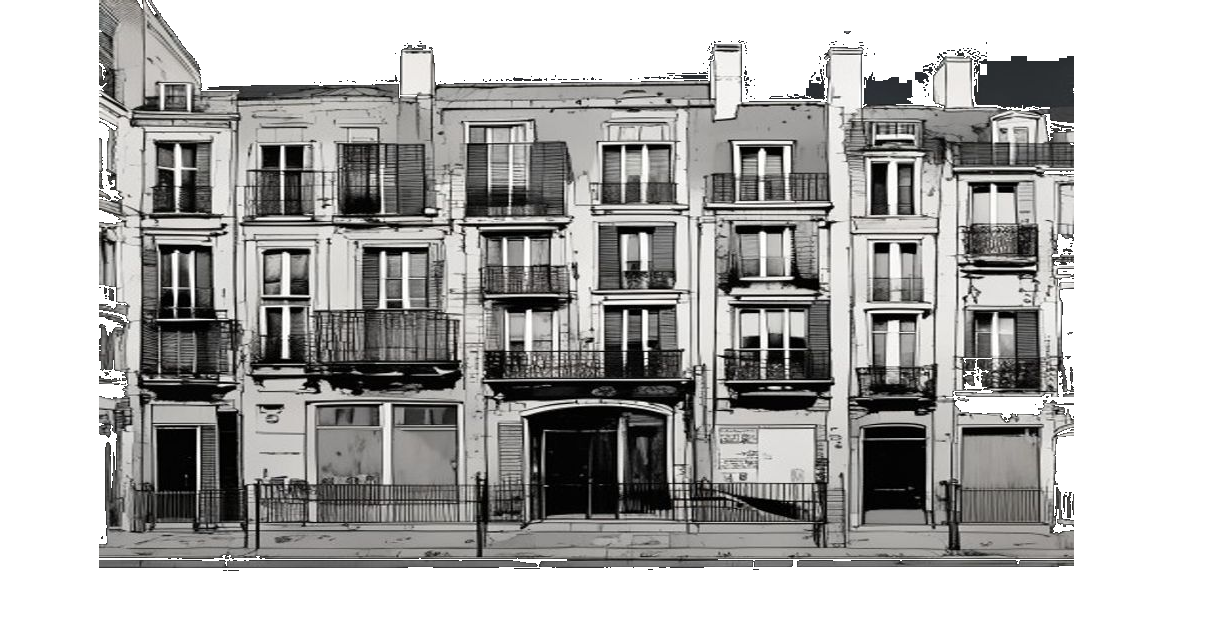
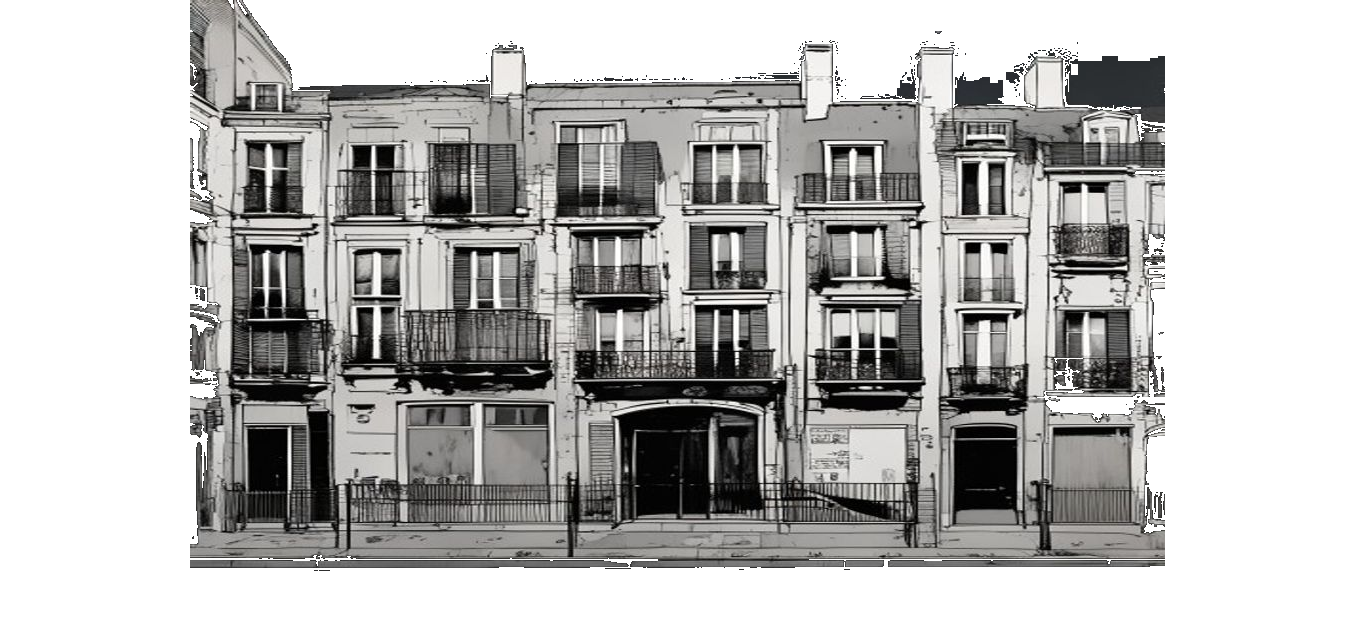
fix(art): widen tronçon side margins to 14% so buildings float off the edges
FLUX fills the frame edge-to-edge whatever the prompt asks (tried twice), so
the façades were cut hard at the drawn-content edges. Since the drawing style
is approved, this keeps the exact art and only widens the guaranteed empty
margin: each committed tile is re-padded to a 14% transparent band on both
sides (content pixels unchanged), the manifest tile aspects are updated to the
new widths, and the generator (aspects + TRONCON_MARGIN_FRAC=0.14) + tests are
synced so a future regen matches.

Verified: vitest 998/0, tsc clean.

diff --git a/src/game/levels/__tests__/backdropLayout.test.ts b/src/game/levels/__tests__/backdropLayout.test.ts
@@ -71,7 +71,7 @@ describe("getBackdropLayout — single-facade parity (fixed levels)", () => {
 
 describe("getBackdropLayout — belliard troncon-sequence geometry", () => {
   // Manifest sequence: troncon-a, troncon-c, troncon-b, troncon-c (padded aspects).
-  const ASPECTS = [1.6491, 1.9224, 1.7857, 1.9224];
+  const ASPECTS = [1.9234, 2.1156, 2.0406, 2.1156];
   const WIDTHS = ASPECTS.map((a) => WORLD_HEIGHT * a);
   const WIDTHS_SUM = WIDTHS.reduce((s, w) => s + w, 0);
   // fullW includes a TRONCON_GAP sky gap between each adjacent pair (n-1 gaps).
